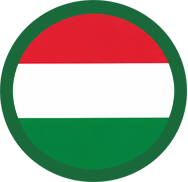
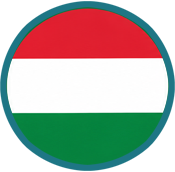
Restyle to the new colours and sprites
Grey background, teal top band and horizontal lines, light cyan text,
no vertical dividers, re-exported sprites and icon. Cache version v2.

Changed region(s): [[0.0, 0.0, 1.0, 1.0]]

diff --git a/css/app.css b/css/app.css
@@ -1,12 +1,16 @@
 /* Sizes follow the Unity layout, designed at 1080 wide: 1cqw = 10.8 reference pixels. */
 :root {
-  --green: #19693a; /* the sprites' own background green */
+  --background: #3c4445; /* the meal sprites' own background grey */
+  --band: #1c5e69; /* top band and horizontal lines, the gear sprite's background */
+  --accent: #28a1b2; /* clock, day headers, calendar button */
+  --text: #96e8f2;
   --white: #ffffff;
+  --refill: #23bc53;
   --button: #0ae967;
   --button-text: #0d331a;
   --secondary: #bfd9cc;
   --backdrop: rgba(0, 0, 0, 0.6);
-  --line: 2px;
+  --line: 0.37cqw;
   color-scheme: light;
 }
 
@@ -18,8 +22,8 @@ html,
 body {
   margin: 0;
   height: 100%;
-  background: var(--green);
-  color: var(--white);
+  background: var(--background);
+  color: var(--text);
   font-family: Arial, "Liberation Sans", Helvetica, sans-serif;
   -webkit-tap-highlight-color: transparent;
   -webkit-text-size-adjust: 100%;
@@ -64,12 +68,13 @@ img {
   overflow: hidden;
 }
 
-/* Header: icon and gear on the sides, the name in the white frame, the status in the green band below. */
+/* Header: one coloured band, icon and gear on the sides, the name above the status between them. */
 .header {
   position: relative;
   flex: none;
-  height: 14.1cqw;
-  border-bottom: var(--line) solid var(--white);
+  height: 13.9cqw;
+  margin-bottom: 0.6cqw;
+  background: var(--band);
 }
 
 .header-icon,
@@ -99,13 +104,11 @@ img {
   left: 13.9cqw;
   right: 13.9cqw;
   height: 8.9cqw;
-  background: var(--white);
-  color: var(--green);
   display: flex;
   align-items: center;
   justify-content: center;
   padding: 0 1.5cqw;
-  font-size: 6.2cqw;
+  font-size: 7.3cqw;
   white-space: nowrap;
   overflow: hidden;
 }
@@ -124,18 +127,18 @@ img {
   display: flex;
   align-items: center;
   justify-content: center;
-  font-size: 3.4cqw;
+  font-size: 4.1cqw;
   white-space: nowrap;
 }
 
-/* Board: one row per meal, one column per calendar day, white lines between. */
+/* Board: one row per meal, one column per calendar day, a line under the day headers. */
 .board {
   flex: 1;
   min-height: 0;
   display: grid;
   grid-template-columns: 13.9cqw repeat(var(--days, 3), minmax(0, 1fr));
-  grid-template-rows: 12.7cqw repeat(var(--meals, 3), minmax(0, 1fr));
-  border-bottom: var(--line) solid var(--white);
+  grid-template-rows: 12.3cqw repeat(var(--meals, 3), minmax(0, 1fr));
+  border-bottom: var(--line) solid var(--band);
 }
 
 .board > * {
@@ -145,15 +148,11 @@ img {
 
 .corner,
 .day-header {
-  border-bottom: var(--line) solid var(--white);
-}
-
-.day-header,
-.cell {
-  border-left: var(--line) solid var(--white);
+  border-bottom: var(--line) solid var(--band);
 }
 
 .day-header {
+  color: var(--accent);
   display: flex;
   flex-direction: column;
   align-items: center;
@@ -183,8 +182,8 @@ img {
 
 .clock {
   position: relative;
-  width: 9cqw;
-  height: 9cqw;
+  width: 8.6cqw;
+  height: 8.6cqw;
 }
 
 .clock img {
@@ -234,8 +233,9 @@ img {
 .footer .button-primary {
   width: 55.6cqw;
   height: 18.5cqw;
-  font-size: 5.4cqw;
+  font-size: 7.1cqw;
   padding: 0 4cqw;
+  background: var(--refill);
 }
 
 .calendar-button {
@@ -246,7 +246,7 @@ img {
   width: 13cqw;
   height: 13cqw;
   padding: 1.5cqw;
-  color: var(--white);
+  color: var(--accent);
 }
 
 .calendar-button svg {
@@ -271,11 +271,15 @@ img {
   background: var(--secondary);
 }
 
+.dialog-buttons .button-secondary {
+  background: rgba(191, 217, 204, 0.51);
+}
+
 .button:not(:disabled):active {
   filter: brightness(0.9);
 }
 
-/* Modals: dimmed backdrop over the whole screen, a green panel on top. */
+/* Modals: dimmed backdrop over the whole screen, a grey panel on top. */
 .modal {
   position: absolute;
   inset: 0;
@@ -289,7 +293,7 @@ img {
 
 .panel {
   position: relative;
-  background: var(--green);
+  background: var(--background);
   border-radius: 3cqw;
   box-shadow: inset 0 0 0 0.4cqw rgba(255, 255, 255, 0.35);
 }

diff --git a/index.html b/index.html
@@ -5,7 +5,7 @@
   <meta name="viewport" content="width=device-width, initial-scale=1, viewport-fit=cover">
   <title>Feed My Horse</title>
   <meta name="description" content="Tracks the horse's feed boxes and when they run out.">
-  <meta name="theme-color" content="#186837">
+  <meta name="theme-color" content="#1c5e69">
   <link rel="manifest" href="manifest.webmanifest">
   <link rel="icon" href="img/icon-192.png">
   <link rel="apple-touch-icon" href="img/icon-180.png">

diff --git a/sw.js b/sw.js
@@ -1,6 +1,6 @@
 // Offline support: the whole app is cached on install and served from the cache.
 // Bump VERSION with every release so installed apps pick up the new files.
-const VERSION = 'v1';
+const VERSION = 'v2';
 const CACHE = `feed-my-horse-${VERSION}`;
 
 const FILES = [
